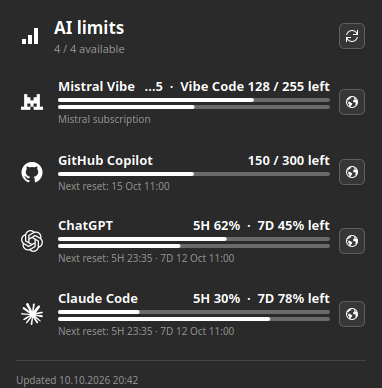
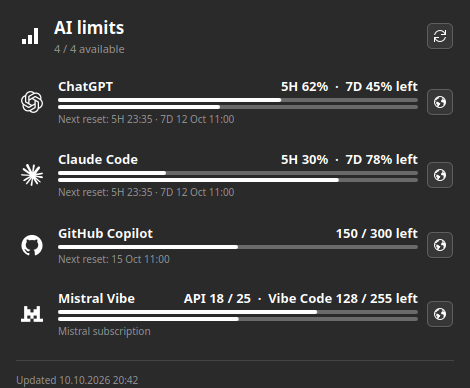
Add light-theme variants of every gallery picture
The widget captures exist in both themes now — the popup and the
settings page, re-rendered at the popup's new 470 px width with the
collector's own order — and the logo and the hero gain light versions
of their own: the logo is the same mark with the palette mirrored, the
hero the same composition inverted. The dark ones stay the store
defaults; the light ones are -light suffixed beside them.

Generated by Mistral Vibe.

diff --git a/docs/kde-store.md b/docs/kde-store.md
@@ -41,7 +41,8 @@ kpackagetool6 --type Plasma/Applet --install dist/ai-limits-1.0.0.plasmoid
    `screenshots/widget-popup.png` and `screenshots/widget-settings.png`
    are rendered from `examples/screenshot-payload.json`, a collector
    output whose texts are the collector's own and whose numbers are
-   samples.
+   samples; each also exists as a `-light` variant. The light logo and
+   hero are the dark ones' own composition with the palette mirrored.
 
 ## Uploading to KDE Store
 

diff --git a/docs/store-listing.md b/docs/store-listing.md
@@ -36,6 +36,9 @@ a faithful proportional resize — it is not cropped.
 3. `screenshots/widget-settings.png` — the settings page: per-provider
    visibility, the up/down order arrows, and the panel's other options.
 
+Every picture also exists in a light variant, `-light` suffixed, for a
+listing that prefers it; the dark ones are the defaults above.
+
 ## Tags (5 maximum)
 
 ```
